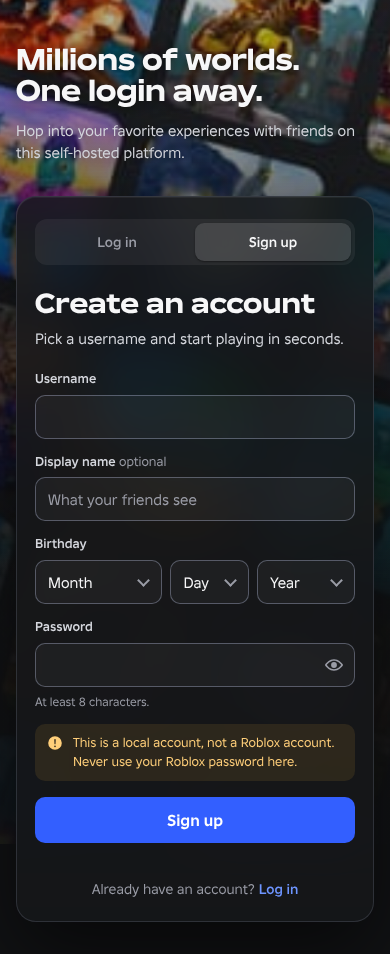
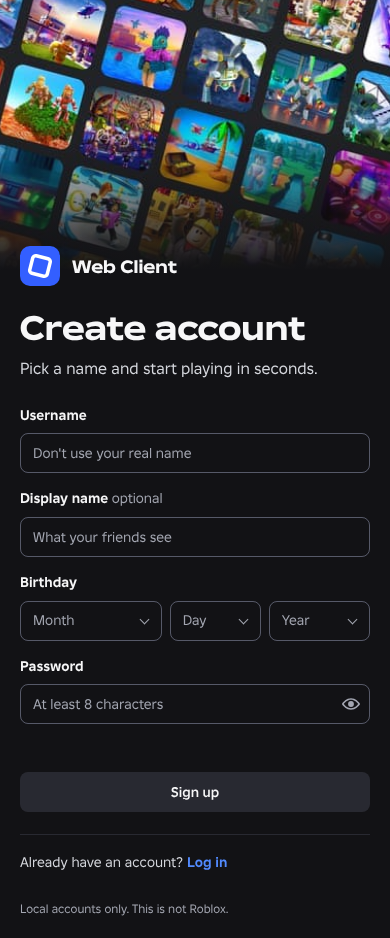
Login page: Rokori-style split layout
Drop the floating glass card and hero headline. The form now sits on a solid
dark panel on the left, the games collage fades in from the right behind a
slanted gradient, buttons are flat and muted, and a small tagline sits
bottom-right. Log in / Sign up switch from the link under the form. The
"not Roblox" warning moves into a one-time dialog with a confirmation
checkbox, plus a footer line. On phones the art is a strip above the form.

Claude-Session: https://claude.ai/code/session_01Wp2Bm4qWJKqm9CfQuMmByv

diff --git a/webclient/pages/login.html b/webclient/pages/login.html
@@ -2,7 +2,7 @@
 <html lang="en">
 <head>
 <meta charset="utf-8">
-<meta name="viewport" content="width=device-width, initial-scale=1">
+<meta name="viewport" content="width=device-width, initial-scale=1, interactive-widget=resizes-content">
 <title>Log in</title>
 <link rel="preload" as="image" href="/pages/assets/games.jpg">
 <link rel="preload" as="font" type="font/woff2" crossorigin href="/pages/assets/BuilderSans-Regular.woff2">
@@ -10,211 +10,206 @@
 <style>
   /* Fonts and background: tools/fetch_login_assets.sh. */
   @font-face { font-family: "Builder Sans"; src: url(/pages/assets/BuilderSans-Regular.woff2) format("woff2"); font-weight: 400; font-display: swap; }
-  @font-face { font-family: "Builder Sans"; src: url(/pages/assets/BuilderSans-Medium.woff2) format("woff2"); font-weight: 500; font-display: swap; }
   @font-face { font-family: "Builder Sans"; src: url(/pages/assets/BuilderSans-SemiBold.woff2) format("woff2"); font-weight: 600; font-display: swap; }
   @font-face { font-family: "Builder Sans"; src: url(/pages/assets/BuilderSans-Bold.woff2) format("woff2"); font-weight: 700; font-display: swap; }
   @font-face { font-family: "Builder Extended"; src: url(/pages/assets/BuilderExtended-ExtraBold.woff2) format("woff2"); font-weight: 800; font-display: swap; }
 
   :root {
     color-scheme: dark;
-    --bg: #111214; --card: rgba(22, 23, 26, .78); --line: rgba(208, 217, 251, .14); --line-strong: rgba(208, 217, 251, .32);
-    --fg: #f7f7f8; --soft: #d5d7dd; --muted: #9a9ca6; --field: rgba(255, 255, 255, .04);
-    --accent: #335fff; --accent-hover: #4a72ff; --link: #6e95ff; --err: #ff5a52; --warn-bg: rgba(255, 186, 73, .1); --warn: #ffcf7a;
+    --bg: #121215; --raised: #191a1f;
+    --fg: #f7f7f8; --soft: #d5d7dd; --muted: #a3a6b1; --link: #528bff;
+    --stroke: rgba(208, 217, 251, .36); --stroke-muted: rgba(208, 217, 251, .12);
+    --focus: #335fff; --err: #f0453c;
+    --button: rgba(208, 217, 251, .12); --hover: rgba(208, 217, 251, .08);
     --sans: "Builder Sans", "Helvetica Neue", Helvetica, Arial, sans-serif;
     --display: "Builder Extended", "Builder Sans", Arial, sans-serif;
+    --panel: 480px;
   }
   * { box-sizing: border-box; }
   html, body { margin: 0; min-height: 100%; }
-  body { min-height: 100vh; background: var(--bg); color: var(--fg); font: 400 15px/1.45 var(--sans); -webkit-font-smoothing: antialiased; overflow-x: hidden; }
+  body { background: var(--bg); color: var(--fg); font: 400 14px/1.4 var(--sans); -webkit-font-smoothing: antialiased; }
 
-  /* Background: the games collage, drifting slowly along its own tilt. */
-  .art { position: fixed; inset: 0; overflow: hidden; z-index: 0; }
-  .art::before { content: ""; position: absolute; inset: -8%; background: var(--bg) url(/pages/assets/games.jpg) center / cover no-repeat;
-    animation: drift 40s ease-in-out infinite alternate; filter: saturate(1.08); }
-  .art::after { content: ""; position: absolute; inset: 0;
-    background:
-      radial-gradient(120% 90% at 30% 40%, rgba(17, 18, 20, 0) 0%, rgba(17, 18, 20, .55) 70%, rgba(17, 18, 20, .9) 100%),
-      linear-gradient(270deg, rgba(17, 18, 20, .92) 0%, rgba(17, 18, 20, .6) 34%, rgba(17, 18, 20, 0) 62%),
-      linear-gradient(0deg, rgba(17, 18, 20, .85) 0%, rgba(17, 18, 20, 0) 35%); }
-  @keyframes drift { from { transform: translate(-2%, 1.5%) scale(1.04); } to { transform: translate(2%, -1.5%) scale(1.1); } }
-  @media (prefers-reduced-motion: reduce) { .art::before { animation: none; } }
+  /* The games collage fills the page; a slanted fade hands it over to the panel. */
+  .art { position: fixed; inset: 0; overflow: hidden; }
+  .art::before { content: ""; position: absolute; inset: -4%; background: var(--bg) url(/pages/assets/games.jpg) 60% center / cover no-repeat;
+    transform: scale(1.02); transition: transform 1.2s cubic-bezier(.22, 1, .36, 1); }
+  .signup .art::before { transform: translateX(2%) scale(1.06); }
+  .art::after { content: ""; position: absolute; inset: 0; background: linear-gradient(0deg, rgba(18, 18, 21, .75), rgba(18, 18, 21, 0) 45%); }
+  .fade { position: fixed; top: 0; bottom: 0; left: -10vh; width: calc(var(--panel) + 700px + 10vh); transform: skewX(6deg); transform-origin: top left;
+    background: linear-gradient(90deg, var(--bg) calc(100% - 700px), rgba(18, 18, 21, .94) calc(100% - 560px), rgba(18, 18, 21, .72) calc(100% - 400px),
+      rgba(18, 18, 21, .4) calc(100% - 230px), rgba(18, 18, 21, .12) calc(100% - 90px), rgba(18, 18, 21, 0) 100%); }
+  .tagline { position: fixed; right: 44px; bottom: 36px; max-width: 440px; text-align: right; text-shadow: 0 2px 16px rgba(0, 0, 0, .7); }
+  .tagline strong { display: block; font: 800 24px/1.2 var(--display); }
+  .tagline span { display: block; margin-top: 6px; color: var(--soft); font-size: 16px; }
 
-  .layout { position: relative; z-index: 1; min-height: 100vh; display: grid; grid-template-columns: 1fr minmax(360px, 440px); gap: 48px;
-    padding: 32px clamp(20px, 5vw, 72px); align-items: center; }
+  .panel { position: relative; z-index: 1; width: var(--panel); min-height: 100vh; display: flex; flex-direction: column; padding: 34px 40px 26px 56px; }
+  .brand { display: inline-flex; align-items: center; gap: 12px; align-self: flex-start; color: var(--fg); text-decoration: none; }
+  .brand svg { display: block; }
+  .brand strong { font: 800 18px var(--display); }
+  main { flex: 1; display: flex; flex-direction: column; justify-content: center; padding: 32px 0; }
+  .form { width: 100%; max-width: 380px; }
 
-  .hero { align-self: end; padding-bottom: 8px; max-width: 560px; text-shadow: 0 2px 18px rgba(0, 0, 0, .65); }
-  .hero h2 { margin: 0; font: 800 clamp(30px, 4vw, 52px)/1.04 var(--display); letter-spacing: -.01em; }
-  .hero p { margin: 14px 0 0; color: var(--soft); font-size: 17px; max-width: 420px; }
+  h1 { margin: 0; font: 800 42px/1.1 var(--display); }
+  .sub { margin: 10px 0 26px; color: var(--soft); font-size: 16px; }
 
-  /* The card. */
-  .card { position: relative; width: 100%; padding: 28px; border: 1px solid var(--line); border-radius: 20px; background: var(--card);
-    backdrop-filter: blur(22px) saturate(1.3); -webkit-backdrop-filter: blur(22px) saturate(1.3);
-    box-shadow: 0 30px 80px rgba(0, 0, 0, .55), inset 0 1px 0 rgba(255, 255, 255, .05); }
-
-  .tabs { position: relative; display: grid; grid-template-columns: 1fr 1fr; padding: 4px; margin-bottom: 24px; border-radius: 12px; background: rgba(255, 255, 255, .06); }
-  .tabs a { position: relative; z-index: 1; padding: 9px 0; text-align: center; border-radius: 9px; color: var(--muted); font-weight: 600; font-size: 14px; text-decoration: none; transition: color .2s; }
-  .tabs a[aria-current="page"] { color: var(--fg); }
-  .tabs a:focus-visible { outline: 2px solid var(--accent); outline-offset: 1px; }
-  .tabs .pill { position: absolute; top: 4px; bottom: 4px; left: 4px; width: calc(50% - 4px); border-radius: 9px; background: rgba(255, 255, 255, .12);
-    box-shadow: 0 1px 2px rgba(0, 0, 0, .4); transition: transform .35s cubic-bezier(.22, 1, .36, 1); }
-  .signup .tabs .pill { transform: translateX(100%); }
-
-  h1 { margin: 0; font: 800 28px/1.1 var(--display); }
-  .sub { margin: 8px 0 20px; color: var(--soft); font-size: 15px; }
-
-  .field { display: flex; flex-direction: column; gap: 6px; margin-bottom: 14px; }
-  .field > label, .legend { font-weight: 600; font-size: 13px; color: var(--soft); }
-  .field .opt { font-weight: 400; color: var(--muted); }
-  .input { display: flex; align-items: center; height: 44px; padding: 0 12px; border: 1px solid var(--line-strong); border-radius: 10px; background: var(--field); transition: border-color .15s, box-shadow .15s; }
-  .input:focus-within { border-color: var(--accent); box-shadow: 0 0 0 3px rgba(51, 95, 255, .3); }
-  .input input, .input select { flex: 1; min-width: 0; height: 100%; padding: 0; border: 0; outline: 0; background: none; color: var(--fg); font: 400 15px var(--sans); }
+  .field { display: flex; flex-direction: column; gap: 8px; padding-bottom: 16px; }
+  .field > label, .field > .label { font-weight: 700; color: var(--fg); }
+  .opt { font-weight: 400; color: var(--muted); }
+  .input { position: relative; display: flex; align-items: center; height: 40px; padding: 0 12px; border: 1px solid var(--stroke); border-radius: 8px; }
+  .input:focus-within { border-color: var(--focus); box-shadow: inset 0 0 0 1px var(--focus); }
+  .input input, .input select { flex: 1; min-width: 0; height: 100%; padding: 0; border: 0; outline: 0; background: none; color: var(--fg); font: 400 14px var(--sans); appearance: none; }
   .input input::placeholder { color: var(--muted); }
-  .input select { appearance: none; cursor: pointer; }
-  .input select option { background: #1e1f23; color: var(--fg); }
-  .input.select { position: relative; padding-right: 30px; }
-  .input.select::after { content: ""; position: absolute; right: 13px; top: 50%; width: 7px; height: 7px; margin-top: -6px; border: solid var(--muted); border-width: 0 2px 2px 0; transform: rotate(45deg); pointer-events: none; }
-  .birthday { display: grid; grid-template-columns: 1.3fr .8fr 1fr; gap: 8px; }
-  .hint { color: var(--muted); font-size: 12px; }
-  .reveal { flex: none; display: grid; place-items: center; width: 30px; height: 30px; margin-right: -6px; border: 0; border-radius: 8px; background: none; color: var(--muted); cursor: pointer; }
-  .reveal:hover, .reveal.on { color: var(--fg); background: rgba(255, 255, 255, .08); }
+  .input select { cursor: pointer; padding-right: 18px; }
+  .input select:invalid { color: var(--muted); }
+  .input select option { background: var(--raised); color: var(--fg); }
+  .input.select::after { content: ""; position: absolute; right: 13px; top: 50%; width: 6px; height: 6px; margin-top: -5px; border: solid var(--muted); border-width: 0 1.5px 1.5px 0; transform: rotate(45deg); pointer-events: none; }
+  .birthday { display: grid; grid-template-columns: 1.4fr .9fr 1fr; gap: 8px; }
+  .reveal { flex: none; display: grid; place-items: center; width: 28px; height: 28px; margin-right: -6px; border: 0; border-radius: 6px; background: none; color: var(--muted); cursor: pointer; }
+  .reveal:hover { background: var(--hover); color: var(--fg); }
+  .reveal.on { color: var(--fg); }
 
-  /* Sign-up-only fields fold open. */
-  .extra { display: grid; grid-template-rows: 0fr; opacity: 0; transition: grid-template-rows .45s cubic-bezier(.22, 1, .36, 1), opacity .3s; }
+  /* Sign-up fields fold away on the log-in side. */
+  .extra { display: grid; grid-template-rows: 0fr; opacity: 0; transition: grid-template-rows .5s cubic-bezier(.22, 1, .36, 1), opacity .35s; }
   .extra > div { overflow: hidden; }
   .signup .extra { grid-template-rows: 1fr; opacity: 1; }
 
-  .notice { display: flex; gap: 10px; margin: 4px 0 16px; padding: 10px 12px; border-radius: 10px; background: var(--warn-bg); color: var(--warn); font-size: 13px; line-height: 1.4; }
-  .notice svg { flex: none; margin-top: 1px; }
-
-  .go { width: 100%; height: 46px; border: 0; border-radius: 10px; background: var(--accent); color: #fff; font: 700 16px var(--sans); cursor: pointer; transition: background .15s, transform .1s; }
-  .go:hover:not(:disabled) { background: var(--accent-hover); }
-  .go:active:not(:disabled) { transform: scale(.985); }
-  .go:focus-visible { outline: 2px solid #fff; outline-offset: 2px; }
-  .go:disabled { opacity: .6; cursor: default; }
-  #err { min-height: 20px; margin: 10px 0 0; color: var(--err); font-size: 13px; }
-  .switch { margin-top: 6px; text-align: center; color: var(--muted); font-size: 14px; }
-  .switch a { color: var(--link); font-weight: 600; text-decoration: none; }
+  #err { min-height: 20px; margin: 0 0 12px; color: var(--err); }
+  .go { position: relative; width: 100%; height: 40px; border: 0; border-radius: 8px; background: var(--button); color: var(--fg); font: 600 14px var(--sans); cursor: pointer; }
+  .go:hover:not(:disabled) { background: rgba(208, 217, 251, .18); }
+  .go:active:not(:disabled) { background: rgba(208, 217, 251, .22); }
+  .go:focus-visible { outline: 2px solid var(--focus); outline-offset: 2px; }
+  .go:disabled { opacity: .5; cursor: default; }
+  .switch { margin-top: 22px; padding-top: 18px; border-top: 1px solid var(--stroke-muted); color: var(--soft); }
+  .switch a { color: var(--link); font-weight: 700; text-decoration: none; }
   .switch a:hover { text-decoration: underline; }
+  .foot { color: var(--muted); font-size: 12px; }
 
-  @media (max-width: 860px) {
-    .layout { grid-template-columns: 1fr; gap: 24px; padding: 20px 16px 32px; align-content: start; }
-    .hero { align-self: auto; order: -1; padding-top: 24px; }
-    .hero h2 { font-size: 30px; }
-    .hero p { font-size: 15px; }
-    .card { padding: 22px 18px; }
-    .art::after { background: linear-gradient(0deg, rgba(17, 18, 20, .95) 30%, rgba(17, 18, 20, .55) 75%, rgba(17, 18, 20, .3) 100%); }
+  /* First visit: say plainly that this isn't Roblox. */
+  dialog { width: calc(100% - 32px); max-width: 560px; padding: 24px; border: 1px solid rgba(208, 217, 251, .08); border-radius: 16px; background: var(--raised); color: var(--fg);
+    box-shadow: 0 16px 32px rgba(4, 4, 8, .4), 0 48px 56px rgba(4, 4, 8, .3); font: 400 16px/1.45 var(--sans); }
+  dialog::backdrop { background: rgba(10, 10, 14, .75); }
+  dialog h2 { margin: 0 0 14px; font: 700 22px/1.2 var(--sans); }
+  dialog p { margin: 0 0 10px; color: var(--soft); }
+  dialog .check { display: flex; gap: 12px; margin-top: 20px; font-size: 14px; cursor: pointer; }
+  dialog .check input { flex: none; width: 22px; height: 22px; margin: 0; accent-color: var(--focus); cursor: pointer; }
+  dialog .ok { width: 100%; height: 44px; margin-top: 28px; border: 0; border-radius: 8px; background: var(--focus); color: #fff; font: 600 15px var(--sans); cursor: pointer; }
+  dialog .ok:disabled { background: var(--button); color: var(--muted); cursor: default; }
+
+  @media (prefers-reduced-motion: reduce) { .art::before, .extra { transition: none; } }
+  @media (max-width: 760px) {
+    .fade, .tagline { display: none; }
+    .art { position: relative; height: 32vh; min-height: 190px; }
+    .art::before { inset: 0; transform: none !important; background-size: auto 150%; background-position: 45% 40%; }
+    .art::after { background: linear-gradient(0deg, var(--bg), rgba(18, 18, 21, 0) 55%); }
+    .panel { width: 100%; min-height: 0; margin-top: -24px; padding: 0 20px 20px; }
+    main { justify-content: flex-start; padding: 24px 0 28px; }
+    .form { max-width: none; }
+    h1 { font-size: 34px; }
   }
 </style>
 </head>
 <body>
 <div class="art" aria-hidden="true"></div>
-<div class="layout">
-  <section class="hero" aria-hidden="true">
-    <h2>Millions of worlds.<br>One login away.</h2>
-    <p>Hop into your favorite experiences with friends on this self-hosted platform.</p>
-  </section>
+<div class="fade" aria-hidden="true"></div>
+<div class="tagline" aria-hidden="true"><strong>Every world is one click away.</strong><span>Jump into your favorite games, hosted by you.</span></div>
 
-  <main class="card">
-    <nav class="tabs" aria-label="Account">
-      <span class="pill" aria-hidden="true"></span>
-      <a id="tab-login" href="/login">Log in</a>
-      <a id="tab-signup" href="/signup">Sign up</a>
-    </nav>
-
-    <h1 id="title">Welcome back</h1>
-    <p class="sub" id="sub">Log in to jump back into the game.</p>
-
-    <form id="form" novalidate>
-      <div class="field">
-        <label for="username">Username</label>
-        <div class="input"><input id="username" name="username" autocomplete="username" spellcheck="false" autocapitalize="none" maxlength="20" required></div>
-      </div>
-
-      <div class="extra"><div>
+<div class="panel">
+  <a class="brand" href="/login">
+    <svg width="40" height="40" viewBox="0 0 40 40" aria-hidden="true"><rect width="40" height="40" rx="10" fill="#335fff"/><rect x="11" y="11" width="18" height="18" rx="3" fill="none" stroke="#fff" stroke-width="3.5" transform="rotate(14 20 20)"/></svg>
+    <strong id="brand">Web Client</strong>
+  </a>
+  <main>
+    <div class="form">
+      <h1 id="title">Log in</h1>
+      <p class="sub" id="sub">Welcome back. Your games are waiting.</p>
+      <form id="form" novalidate>
         <div class="field">
-          <label for="displayName">Display name <span class="opt">optional</span></label>
-          <div class="input"><input id="displayName" name="displayName" maxlength="20" autocomplete="nickname" placeholder="What your friends see"></div>
+          <label for="username">Username</label>
+          <div class="input"><input id="username" name="username" maxlength="20" autocomplete="username" spellcheck="false" autocapitalize="none"></div>
         </div>
-        <div class="field" role="group" aria-labelledby="bday-label">
-          <span class="legend" id="bday-label">Birthday</span>
-          <div class="birthday">
-            <div class="input select"><select id="month" aria-label="Month"><option value="">Month</option></select></div>
-            <div class="input select"><select id="day" aria-label="Day"><option value="">Day</option></select></div>
-            <div class="input select"><select id="year" aria-label="Year"><option value="">Year</option></select></div>
+        <div class="extra"><div>
+          <div class="field">
+            <label for="displayName">Display name <span class="opt">optional</span></label>
+            <div class="input"><input id="displayName" name="displayName" maxlength="20" autocomplete="nickname" spellcheck="false" placeholder="What your friends see"></div>
+          </div>
+          <div class="field" role="group" aria-labelledby="bday">
+            <span class="label" id="bday">Birthday</span>
+            <div class="birthday">
+              <div class="input select"><select id="month" aria-label="Month" required><option value="" disabled selected>Month</option></select></div>
+              <div class="input select"><select id="day" aria-label="Day" required><option value="" disabled selected>Day</option></select></div>
+              <div class="input select"><select id="year" aria-label="Year" required><option value="" disabled selected>Year</option></select></div>
+            </div>
+          </div>
+        </div></div>
+        <div class="field">
+          <label for="password">Password</label>
+          <div class="input">
+            <input id="password" name="password" type="password" maxlength="200" autocomplete="current-password">
+            <button class="reveal" id="reveal" type="button" aria-label="Show password" aria-pressed="false">
+              <svg viewBox="0 0 24 24" width="20" height="20" aria-hidden="true"><path fill="currentColor" d="M12 5c5.5 0 9.3 4.4 10.6 6.3.3.4.3 1 0 1.4C21.3 14.6 17.5 19 12 19S2.7 14.6 1.4 12.7a1.2 1.2 0 0 1 0-1.4C2.7 9.4 6.5 5 12 5Zm0 2c-4.2 0-7.4 3.2-8.6 5 1.2 1.8 4.4 5 8.6 5s7.4-3.2 8.6-5c-1.2-1.8-4.4-5-8.6-5Zm0 1.5a3.5 3.5 0 1 1 0 7 3.5 3.5 0 0 1 0-7Z"/></svg>
+            </button>
           </div>
         </div>
-      </div></div>
-
-      <div class="field">
-        <label for="password">Password</label>
-        <div class="input">
-          <input id="password" name="password" type="password" autocomplete="current-password" maxlength="200" required>
-          <button class="reveal" id="reveal" type="button" aria-label="Show password" aria-pressed="false">
-            <svg viewBox="0 0 24 24" width="20" height="20" aria-hidden="true"><path fill="currentColor" d="M12 5c5.5 0 9.3 4.4 10.6 6.3.3.4.3 1 0 1.4C21.3 14.6 17.5 19 12 19S2.7 14.6 1.4 12.7a1.2 1.2 0 0 1 0-1.4C2.7 9.4 6.5 5 12 5Zm0 2c-4.2 0-7.4 3.2-8.6 5 1.2 1.8 4.4 5 8.6 5s7.4-3.2 8.6-5c-1.2-1.8-4.4-5-8.6-5Zm0 1.5a3.5 3.5 0 1 1 0 7 3.5 3.5 0 0 1 0-7Z"/></svg>
-          </button>
-        </div>
-        <span class="hint" id="pw-hint" hidden>At least 8 characters.</span>
-      </div>
-
-      <div class="notice">
-        <svg viewBox="0 0 20 20" width="16" height="16" aria-hidden="true"><path fill="currentColor" d="M10 1.5a8.5 8.5 0 1 1 0 17 8.5 8.5 0 0 1 0-17Zm0 11.75a1 1 0 1 0 0 2 1 1 0 0 0 0-2ZM10 5a.9.9 0 0 0-.9.95l.25 5.1a.65.65 0 0 0 1.3 0l.25-5.1A.9.9 0 0 0 10 5Z"/></svg>
-        <span>This is a local account, not a Roblox account. Never use your Roblox password here.</span>
-      </div>
-
-      <button class="go" id="submit">Log in</button>
-      <div id="err" role="alert"></div>
-    </form>
-    <div class="switch" id="switch"></div>
+        <div id="err" role="alert"></div>
+        <button class="go" id="submit">Log in</button>
+      </form>
+      <div class="switch"><span id="prompt"></span> <a id="switch" href="/signup"></a></div>
+    </div>
   </main>
+  <div class="foot">Local accounts only. This is not Roblox.</div>
 </div>
+
+<dialog id="notice" aria-labelledby="notice-title">
+  <h2 id="notice-title">Before you continue</h2>
+  <p>This is a self-hosted platform. It is not Roblox and is not affiliated with Roblox Corporation.</p>
+  <p>Accounts here are local to this server. Never enter your Roblox password.</p>
+  <label class="check"><input type="checkbox" id="agree"><span>I understand this is not a Roblox account.</span></label>
+  <button class="ok" id="notice-ok" type="button" disabled>Continue</button>
+</dialog>
+
 <script>
   const $ = (id) => document.getElementById(id);
   const params = new URLSearchParams(location.search);
   const returnUrl = /^\/(?!\/)/.test(params.get('returnUrl') || '') ? params.get('returnUrl') : '/games/start?placeId=1818';
   const qs = `?returnUrl=${encodeURIComponent(returnUrl)}`;
-  $('tab-login').href = `/login${qs}`;
-  $('tab-signup').href = `/signup${qs}`;
 
-  // Birthday dropdowns, Roblox-style (month / day / year).
-  const months = ['January', 'February', 'March', 'April', 'May', 'June', 'July', 'August', 'September', 'October', 'November', 'December'];
-  months.forEach((m, i) => $('month').add(new Option(m, i + 1)));
+  // Birthday dropdowns (month / day / year), sent as YYYY-MM-DD.
+  ['January', 'February', 'March', 'April', 'May', 'June', 'July', 'August', 'September', 'October', 'November', 'December']
+    .forEach((m, i) => $('month').add(new Option(m, i + 1)));
   for (let d = 1; d <= 31; d++) $('day').add(new Option(d, d));
   for (let y = new Date().getFullYear(), end = y - 100; y >= end; y--) $('year').add(new Option(y, y));
   const birthdate = () => {
     const y = +$('year').value, m = +$('month').value, d = +$('day').value;
-    if (!y || !m || !d) return null;
     const dt = new Date(Date.UTC(y, m - 1, d));
-    if (dt.getUTCMonth() !== m - 1) return null; // e.g. February 30
-    return dt.toISOString().slice(0, 10);
+    return y && m && d && dt.getUTCMonth() === m - 1 ? dt.toISOString().slice(0, 10) : null;
   };
 
-  // Log in and sign up are one page; the tabs switch in place.
+  // Log in and sign up share the page; switching keeps the URL in step.
   let signup;
   function setMode(s, push) {
     signup = s;
     document.body.classList.toggle('signup', s);
-    $(s ? 'tab-signup' : 'tab-login').setAttribute('aria-current', 'page');
-    $(s ? 'tab-login' : 'tab-signup').removeAttribute('aria-current');
     document.title = s ? 'Sign up' : 'Log in';
-    $('title').textContent = s ? 'Create an account' : 'Welcome back';
-    $('sub').textContent = s ? 'Pick a username and start playing in seconds.' : 'Log in to jump back into the game.';
+    $('title').textContent = s ? 'Create account' : 'Log in';
+    $('sub').textContent = s ? 'Pick a name and start playing in seconds.' : 'Welcome back. Your games are waiting.';
     $('submit').textContent = s ? 'Sign up' : 'Log in';
+    $('username').placeholder = s ? "Don't use your real name" : '';
+    $('password').placeholder = s ? 'At least 8 characters' : '';
     $('password').autocomplete = s ? 'new-password' : 'current-password';
-    $('pw-hint').hidden = !s;
+    $('prompt').textContent = s ? 'Already have an account?' : 'New here?';
+    $('switch').textContent = s ? 'Log in' : 'Sign up';
+    $('switch').href = `/${s ? 'login' : 'signup'}${qs}`;
     for (const el of document.querySelectorAll('.extra input, .extra select')) el.tabIndex = s ? 0 : -1;
-    $('switch').innerHTML = s ? `Already have an account? <a href="/login${qs}" data-mode="login">Log in</a>`
-                              : `New here? <a href="/signup${qs}" data-mode="signup">Create an account</a>`;
     $('err').textContent = '';
     if (push) history.pushState(null, '', `/${s ? 'signup' : 'login'}${location.search}`);
   }
   setMode(location.pathname === '/signup');
   addEventListener('popstate', () => setMode(location.pathname === '/signup'));
-  document.addEventListener('click', (e) => {
-    const a = e.target.closest('#tab-login, #tab-signup, #switch a');
-    if (!a || e.metaKey || e.ctrlKey || e.shiftKey) return;
+  $('switch').addEventListener('click', (e) => {
+    if (e.metaKey || e.ctrlKey || e.shiftKey) return;
     e.preventDefault();
-    const s = a.id === 'tab-signup' || a.dataset.mode === 'signup';
-    if (s !== signup) setMode(s, true);
+    setMode(!signup, true);
+    $('username').focus();
   });
 
   $('reveal').addEventListener('click', () => {
@@ -242,11 +237,25 @@
       if (r.ok) return location.assign(returnUrl);
       const j = await r.json().catch(() => ({}));
       err.textContent = (j.errors && j.errors[0] && j.errors[0].message) || `Request failed (HTTP ${r.status})`;
-    } catch (x) {
+    } catch {
       err.textContent = 'Could not reach the server.';
     }
     $('submit').disabled = false;
   });
+
+  // The notice shows once per browser.
+  let seen = false;
+  try { seen = localStorage.getItem('localNoticeSeen') === '1'; } catch {}
+  if (!seen) {
+    $('notice').showModal();
+    $('notice').addEventListener('cancel', (e) => e.preventDefault());
+    $('agree').addEventListener('change', () => { $('notice-ok').disabled = !$('agree').checked; });
+    $('notice-ok').addEventListener('click', () => {
+      try { localStorage.setItem('localNoticeSeen', '1'); } catch {}
+      $('notice').close();
+      $('username').focus();
+    });
+  }
 </script>
 </body>
 </html>
